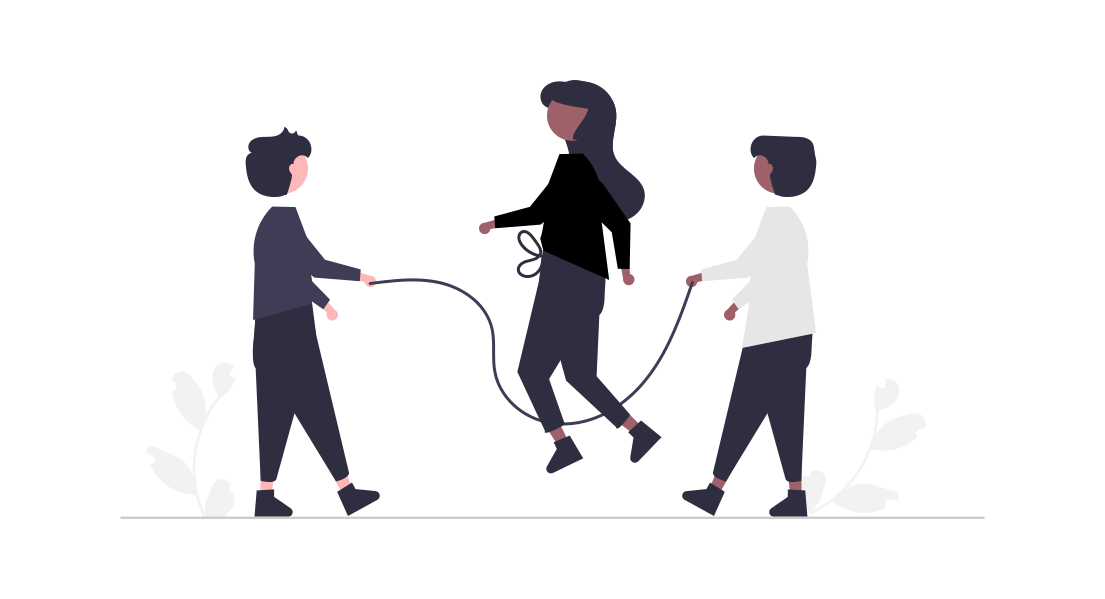
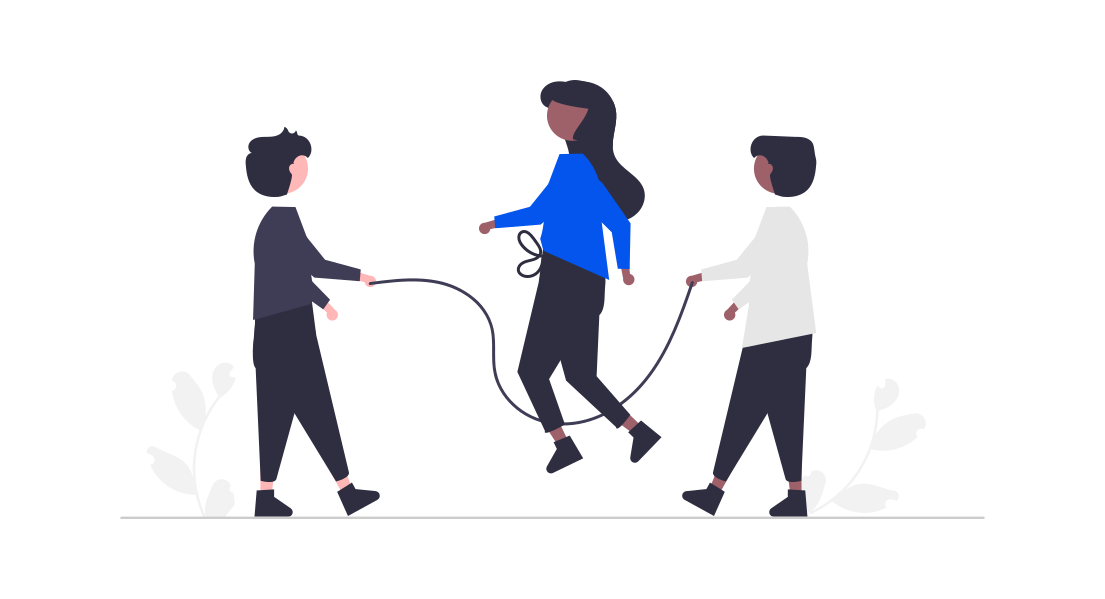
Se mejoro la parte responsive se cambio a color azul se agrego animaciones

Changed region(s): [[0.4308, 0.2404, 0.5846, 0.4808]]

diff --git a/index.html b/index.html
@@ -4,7 +4,12 @@
     <meta charset="UTF-8" />
     <meta http-equiv="X-UA-Compatible" content="IE=edge" />
     <meta name="viewport" content="width=device-width, initial-scale=1.0" />
-    <title>Document</title>
+    <title>PlusTv</title>
+    <link
+      rel="shortcut icon"
+      href="/img/play_button_dibpb5xwk39u.ico"
+      type="image/x-icon"
+    />
 
     <link rel="stylesheet" href="/css/styles.css" />
 
@@ -19,10 +24,10 @@
   <body>
     <!-- HEADER -->
     <header>
-      <nav class="navbar navbar-expand-md cont-bg-nv">
-        <div class="container cont-navbrand">
-          <a class="navbar-brand text-light" href="#">
-            <img src="/img/LogoMakr-5yrLXF.png" style="width: 25%" alt="" />
+      <nav class="navbar navbar-expand-lg cont-bg-nv">
+        <div class="container">
+          <a class="navbar-brand text-light" href="#" style="max-width: 20%">
+            <img src="/img/Logo.png" style="max-width: 100px" alt="" />
             <span class="fs-2">PlusTV </span>
           </a>
           <button
@@ -42,14 +47,19 @@
             class="collapse navbar-collapse nav-txt justify-content-end"
             id="navbarNav"
           >
-            <ul class="navbar-nav">
-              <li class="nav-item ">
-                <a class="nav-item" href="#">Planes Y Subscripciones</a>
+            <ul class="navbar-nav text-center">
+              <li class="nav-item cont-text-nav justify-content-center">
+                <a
+                  class="text-light fs-3 mx-3"
+                  href="#"
+                  style="text-decoration: none"
+                  >Planes</a
+                >
               </li>
               <li class="nav-item cont-btn">
                 <button
                   type="button"
-                  class="btn fs-4"
+                  class="btn mx-3"
                   data-bs-toggle="modal"
                   data-bs-target="#staticBackdrop"
                 >
@@ -61,7 +71,6 @@
                   >
                 </button>
               </li>
-             
             </ul>
           </div>
         </div>
@@ -70,6 +79,7 @@
 
     <main class="cont-bg-body">
       <!-- Main -->
+
       <section class="container">
         <div class="cont-text text-light">
           <h1>Películas y series ilimitadas</h1>
@@ -140,10 +150,14 @@
             </div>
           </div>
         </div>
+        <div class="cont-hidden  text-center">
+          <button class="btn fs-3 my-2 px-5 btn-primary">Subscribirse</button>
+        </div>
+      </div>
 
         <div
-          class="input-group input-group-lg container my-5 cont-btn"
-          style="width: 70%"
+          class="input-group input-group-lg container  cont-input cont-btn"
+          style="width: 80%"
         >
           <button class="btn p-2 fs-3 text-light" id="inputGroup-sizing-lg">
             Comenzar
@@ -155,15 +169,22 @@
             aria-label="Sizing example input"
             aria-describedby="inputGroup-sizing-lg"
           />
-        </div>
+        
       </section>
 
+    
+
       <section class="container cont-card">
-        <hr class="opacity-100 border-danger" />
+        <hr class="opacity-100 border-dark" />
         <div class="card border-0 my-5" style="max-width: 100%">
           <div class="row g-0">
             <div class="col-md-4">
-              <img src="/img/4.png" class="img-fluid rounded-start" alt="..." />
+              <img
+                src="/img/1.png"
+                class="img-fluid rounded-start"
+                style="max-height: 250px"
+                alt="..."
+              />
             </div>
             <div class="col-md-8">
               <div class="card-body">
@@ -193,7 +214,12 @@
               </div>
             </div>
             <div class="col-md-4">
-              <img src="/img/3.png" class="img-fluid rounded-start" alt="..." />
+              <img
+                src="/img/3.png"
+                class="img-fluid rounded-start"
+                style="max-height: 250px"
+                alt="..."
+              />
             </div>
           </div>
         </div>
@@ -202,7 +228,12 @@
         <div class="card border-0 my-5" style="max-width: 100%">
           <div class="row g-0">
             <div class="col-md-4">
-              <img src="/img/2.png" class="img-fluid rounded-start" alt="..." />
+              <img
+                src="/img/2.png"
+                class="img-fluid rounded-start"
+                style="max-height: 250px"
+                alt="..."
+              />
             </div>
             <div class="col-md-8">
               <div class="card-body">
@@ -232,23 +263,28 @@
               </div>
             </div>
             <div class="col-md-4">
-              <img src="/img/4.png" class="img-fluid rounded-start" alt="..." />
+              <img
+                src="/img/4.png"
+                class="img-fluid rounded-start"
+                style="max-height: 250px"
+                alt="..."
+              />
             </div>
           </div>
         </div>
-        <hr class="opacity-100 border-dark" />
       </section>
+      <hr class="border-light opacity-100" />
     </main>
 
     <footer>
       <div class="container-fluid cont_bg_foot text-light">
         <div class="row">
           <div class="col-xs-12 col-md-4 col-lg-4 text-center">
-            <h2 class="nav-bg">FastTV</h2>
-            <img src="/img/LogoMakr-5yrLXF.png" alt="" />
+            <h2 class="margin-foot">FastTV</h2>
+            <img src="/img/logo.png" style="height: 200px" alt="" />
           </div>
           <div class="col-xs-12 col-md-4 col-lg-4 text-center">
-            <h2>Nuestras Redes Solciales</h2>
+            <h2 class="my-5">Nuestras Redes Solciales</h2>
 
             <div class="m-3 text-start">
               <img src="/img/logo face.png" style="width: 10%" alt="" />
@@ -267,7 +303,7 @@
             </div>
           </div>
           <div class="col-xs-12 col-md-4 col-lg-4 text-center">
-            <h2>Acerca De Nosotros</h2>
+            <h2 class="my-5">Acerca De Nosotros</h2>
             <a href=""
               ><img src="/img/ACERCA.png" style="width: 40%" alt=""
             /></a>

diff --git a/css/styles.css b/css/styles.css
@@ -1,27 +1,52 @@
-
-
+* {
+  @import url("https://fonts.googleapis.com/css2?family=Montserrat:ital,wght@0,100;0,200;0,300;0,600;0,700;1,100;1,200;1,300;1,600&family=Roboto:wght@300&display=swap");
+  font-family: "Montserrat", sans-serif;
+  padding: 0;
+  margin: 0;
+  box-sizing: border-box;
+}
 
 .cont-text h1 {
-  font-size: 60px;
-  margin-bottom: 50px;
+  font-size: 80px;
+  padding: 60px;
   text-align: center;
+  color: #ffffff;
 }
+
 hr {
   margin: 0 150px !important;
 }
 .cont-bg-nv {
-  background-color: rgb(0, 0, 0) !important;
+  background: radial-gradient(rgba(0, 0, 0, 0.209), rgba(0, 0, 0, 0.856)),
+    url(/img/1neflix.png);
+  animation: myAnim 500s linear 0s infinite alternate forwards;
+}
+@keyframes myAnim {
+  0% {
+    background-position: 50% 100%;
+  }
+
+  100% {
+    background-position: 50% 0%;
+  }
+}
+.cont-text-nav {
+  display: flex;
+  align-items: center;
 }
 
 .cont_bg_foot {
   background-color: rgba(0, 0, 0);
 }
 .cont-btn button {
-  background-color: #ed0310;
+  background-color: #0355ed;
+}
+.cont-btn a {
+  font-size: 20px;
 }
 
 .cont-card h2 {
-  color:#ed0310;
+  color: #0355ed;
 }
 
 .img_cont1 {
@@ -39,12 +64,15 @@ hr {
   top: 0%;
   left: 25%;
 }
-.cont-bg-body{
-  background:linear-gradient(#000000,#434343,#000000);
+.cont-bg-body {
+  background: linear-gradient(#000000, #191819, #000000);
+}
+.cont-hidden {
+  visibility: hidden;
 }
 
 @media screen and (max-width: 1250px) {
-  .cont-text h2 {
+  .cont-text h1 {
     font-size: 400%;
   }
   #imagenes {
@@ -67,13 +95,12 @@ hr {
     left: 15%;
   }
 
-  .cont-text h2 {
+  .cont-text h1 {
     font-size: 400%;
+    padding: 20px;
   }
 }
 @media screen and (max-width: 990px) {
-}
-@media screen and (max-width: 765px) {
   #imagenes {
     width: 90%;
   }
@@ -83,23 +110,48 @@ hr {
     left: 5%;
   }
 
-  .cont-text h2 {
+  .cont-text h1 {
     font-size: 330%;
+    padding: 20px;
+  }
+}
+@media screen and (max-width: 765px) {
+  #imagenes {
+    width: 100%;
+  }
+  .img_carss {
+    width: 100%;
+    margin: 0 auto;
+    left: 0;
+  }
+
+  .cont-text h1 {
+    font-size: 330%;
+    padding: 20px;
+  }
+  .cont-input {
+    visibility: hidden;
+  }
+  .cont-hidden {
+    visibility: visible;
+   
+    
   }
 }
 
 @media screen and (max-width: 495px) {
   #imagenes {
-    width: 90%;
+    width: 100%;
   }
   .img_carss {
-    width: 90%;
+    width: 100%;
     margin: 0 auto;
-    left: 5%;
+    left: 0%;
   }
 
-  .cont-text h2 {
-    font-size: 45px;
+  .cont-text h1 {
+    padding: 20px;
+    font-size: 35px;
   }
 }
 .nav-txt2 {
@@ -108,32 +160,6 @@ hr {
   font-size: 30px;
 }
 
-.cont-form {
-  margin-top: 10%;
-  margin-bottom: 5%;
-  background-color: #000000c8;
-}
-
-@media screen and (max-width: 1200px) {
-  .cont-form {
-    margin: 25% 5%;
-  }
-}
-
-@media screen and (max-width: 900px) {
-  .cont-form {
-    margin: 35% 5%;
-  }
-}
-
-@media screen and (max-width: 610px) {
-  .cont-form {
-    margin-top: 45%;
-  }
-}
-
-@media screen and (max-width: 500px) {
-  .cont-form {
-    margin-top: 55%;
-  }
+.margin-foot {
+  margin-top: 45px;
 }
